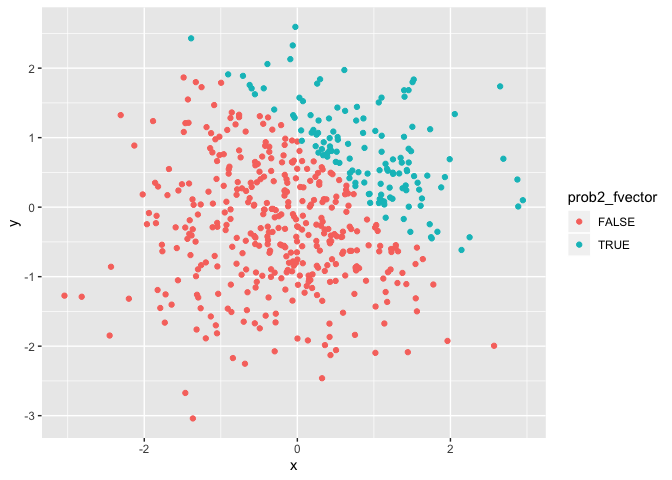
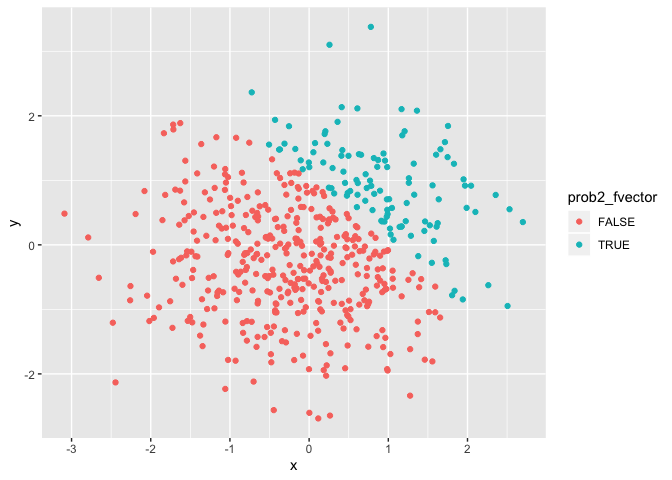
Saved 3 plots as png files

diff --git a/p8105_hw1_hf2379.md b/p8105_hw1_hf2379.md
@@ -16,9 +16,9 @@ prob1_df = tibble (
 
 ## Try to take the mean of each variable:
 
-  - The mean of the sample size is 0.2639421.
+  - The mean of the sample size is -0.4825472.
 
-  - The mean of the logical statement is 0.625.
+  - The mean of the logical statement is 0.375.
 
   - The mean of the character vector is NA.
 
@@ -47,8 +47,8 @@ the
 as.numeric(pull(prob1_df, prob1_sample_over0))*pull(prob1_df, prob1_sample)
 ```
 
-    ## [1] 0.0000000 1.1053437 0.9358871 0.9007361 0.2459125 0.3636174 0.0000000
-    ## [8] 0.0000000
+    ## [1] 0.04511122 0.00000000 0.00000000 0.00000000 0.00000000 0.65555355
+    ## [7] 0.00000000 1.13817242
 
 ``` r
 as.factor(pull(prob1_df, prob1_sample_over0))*pull(prob1_df, prob1_sample)
@@ -63,8 +63,8 @@ as.factor(pull(prob1_df, prob1_sample_over0))*pull(prob1_df, prob1_sample)
 as.numeric(as.factor(pull(prob1_df, prob1_sample_over0)))*pull(prob1_df, prob1_sample)
 ```
 
-    ## [1] -0.1290080  2.2106874  1.8717741  1.8014721  0.4918251  0.7272348
-    ## [7] -0.2258183 -1.0851335
+    ## [1]  0.09022244 -0.68665428 -1.58562845 -0.19314386 -0.51069451  1.31110709
+    ## [7] -2.72309344  2.27634484
 
 # Problem 2
 
@@ -82,14 +82,14 @@ prob2_df = tibble(
 
   - This dataset contains 500 rows and 5 columns
 
-  - the mean of x is 0.0337471
+  - the mean of x is -0.0280286
 
-  - the median of x is 0.0274929
+  - the median of x is -0.0026465
 
-  - the standard deviation of x is 1.0052332
+  - the standard deviation of x is 0.9930671
 
   - the proportion of cases for which x + y \> 1 is
-0.262
+0.224
 
 ## Plots for Problem 2
 
@@ -99,6 +99,10 @@ plot1
 ```
 
 ![](p8105_hw1_hf2379_files/figure-gfm/problem2_plot_logical-1.png)<!-- -->
+\* This plot has two colors, red and blue, for FALSE and TRUE,
+respectively. That’s because the color assignments are based on the
+values for our logical vector which is either TRUE or
+FALSE.
 
 ``` r
 plot2 = ggplot(prob2_df, aes(x = x, y = y, color = prob2_nvector)) + geom_point()
@@ -107,9 +111,41 @@ plot2
 
 ![](p8105_hw1_hf2379_files/figure-gfm/problem2_plot_nvector-1.png)<!-- -->
 
+  - This plot has a range of colors for our range of values between 1
+    and 0. This color is numeric and therefore has a range of values.
+    But since this was built off of our logical vector (TRUE, FALSE), we
+    only see values for 1 and 0
+.
+
+<!-- end list -->
+
 ``` r
 plot3 = ggplot(prob2_df, aes(x = x, y = y, color = prob2_fvector)) + geom_point()
 plot3
 ```
 
 ![](p8105_hw1_hf2379_files/figure-gfm/problem2_plot_fvector-1.png)<!-- -->
+
+  - This plot has two colors, red and blue, for FALSE and TRUE,
+    respectively. That’s because the color assignments are based on the
+    values for our factor vector which are either TRUE or FALSE.
+
+<!-- end list -->
+
+``` r
+ggsave(plot1, file = "plot1.png")
+```
+
+    ## Saving 7 x 5 in image
+
+``` r
+ggsave(plot2, file = "plot2.png")
+```
+
+    ## Saving 7 x 5 in image
+
+``` r
+ggsave(plot3, file = "plot3.png")
+```
+
+    ## Saving 7 x 5 in image
